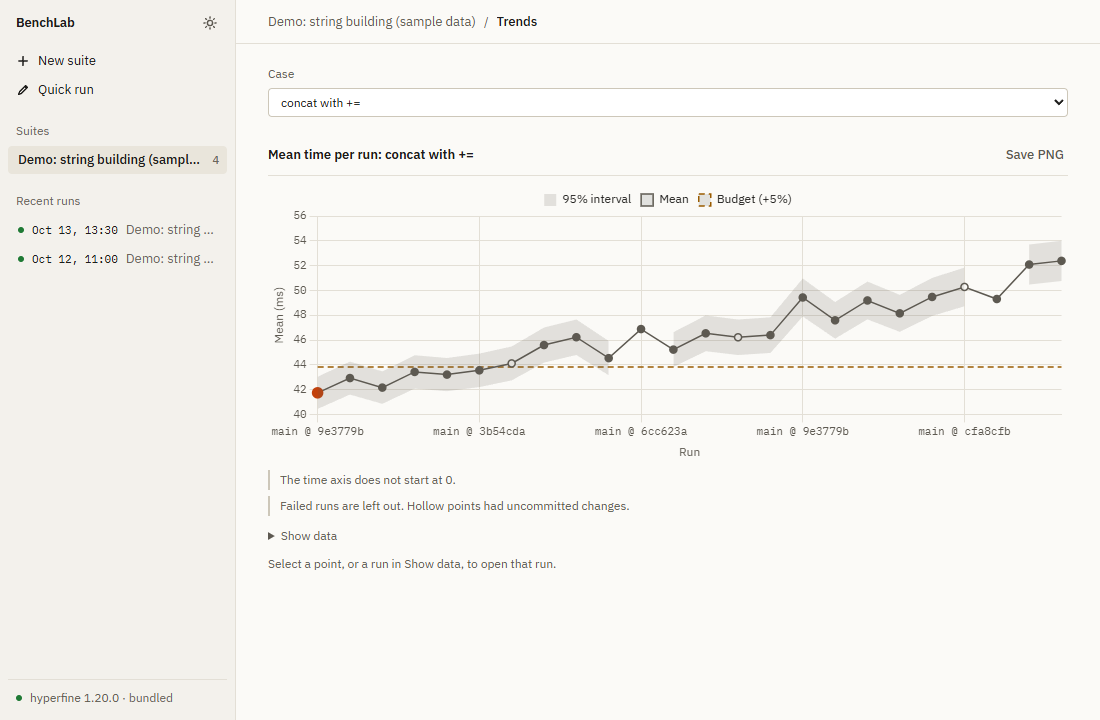
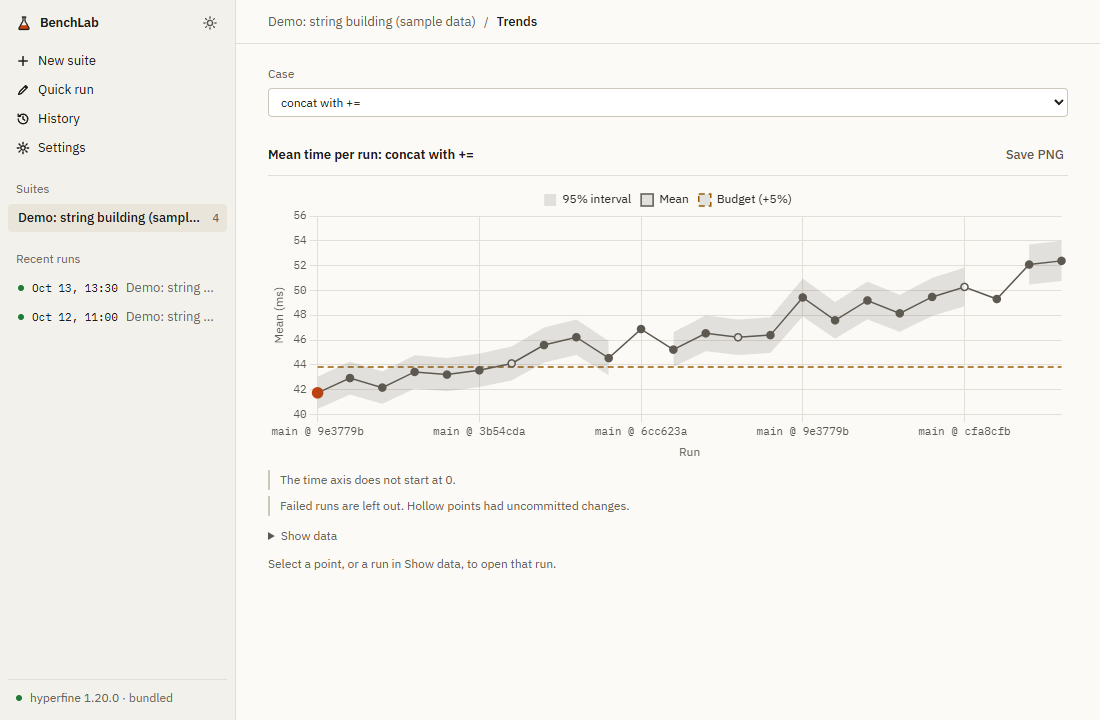
docs: describe progress, logs, diagnosis, history and settings
The README now covers live progress, the run log and running a failed
case once, the History and Settings pages, Excel export, and the new
module layout. Screenshots are regenerated from the UI audit, with one
of the History page added.

Changed region(s): [[0.0, 0.1528, 0.1855, 0.3667], [0.0309, 0.3972, 0.1855, 0.4583], [0.0, 0.0, 0.0927, 0.0611]]

diff --git a/README.md b/README.md
@@ -11,10 +11,11 @@ A desktop app for the question hyperfine leaves to you: **did my change make it 
 | | hyperfine alone | BenchLab |
 |---|---|---|
 | Rerun the same benchmark later | Retype or script the command line | Saved suite: cases, setup, cleanup, working directory, runs, warm-up |
-| Remember past results | Whatever you saved by hand | Every run stored with its raw output, a snapshot of the suite configuration, and the git commit it measured |
+| Remember past results | Whatever you saved by hand | Every run stored with its raw output, a snapshot of the suite configuration, and the git commit it measured; a History page to search, annotate, tag and delete runs |
+| Know what happened | Scroll back, if the window is still open | Live progress with an estimate of time left, hyperfine's log per case, and a way to run a failed case once and see what it printed |
 | Compare two runs | Eyeball two terminal outputs | Per-case change with a 95% interval, a verdict, and caveats |
 | See change over time | Plot it yourself | Distribution, run-order and per-case trend charts, with the 95% band, uncommitted runs and the regression budget marked |
-| Share results | Copy text | Markdown and CSV export, copy as Markdown |
+| Share results | Copy text | Markdown, CSV and Excel export, copy as Markdown, charts as PNG |
 | Install | Separate | Ships its own hyperfine |
 
 BenchLab does not replace hyperfine. It runs it for you and records what happened.
@@ -32,13 +33,18 @@ The sidebar footer shows which one is in use and its version. Every run records 
 ## Using it
 
 1. **New suite.** Name it, add cases (a name and a command each), and choose timed runs and warm-up runs. Setup and cleanup commands and a working directory are under each case.
-2. **Run.** BenchLab first shows every command, setup, cleanup and directory, and runs nothing until you confirm. You can cancel a running suite; cases already finished are kept.
-3. **Compare.** Open a run and choose Compare. The baseline defaults to the suite's pinned run (pin one from a run's page with Pin as baseline), or to the previous run that has results if none is pinned. Pick any two runs of the suite.
-4. **Charts.** Charts on a run or a comparison opens a page with a histogram of one case's timings and the timings in run order (a cold first run stands out there). Trends on a suite plots one case's mean across its runs, with the 95% band, uncommitted runs and the budget line. Every chart has a Show data table and can be saved as PNG.
+2. **Run.** BenchLab first shows every command, setup, cleanup and directory, and runs nothing until you confirm. While it runs, the sidebar and the suite page show the current case, the time so far and, once the suite has history, about how long is left. You can cancel a running suite; cases already finished are kept.
+3. **Read the run.** A run's page has its results, a searchable log with hyperfine's output for each case, and Markdown, CSV and Excel export. A failed case says why in plain words and offers **Run once and show output**: after the same confirmation, it runs that case once, untimed and not recorded, and shows everything it printed, including errors that a timed run discards.
+4. **Compare.** Open a run and choose Compare. The baseline defaults to the suite's pinned run (pin one from a run's page with Pin as baseline), or to the previous run that has results if none is pinned. Pick any two runs of the suite.
+5. **Charts.** Charts on a run or a comparison opens a page with a histogram of one case's timings and the timings in run order (a cold first run stands out there). Trends on a suite plots one case's mean across its runs, with the 95% band, uncommitted runs and the budget line. Every chart has a Show data table and can be saved as PNG.
 
    ![Trends for one case](docs/screenshots/light-trends.png)
 
-5. **Export.** Markdown, CSV or Excel from a run or a comparison. Use Excel for spreadsheets: a CSV depends on the locale's separators (with a decimal comma, Excel puts each CSV line in one cell), while the `.xlsx` stores numbers as numbers, with the notes and method on a second sheet.
+6. **Export.** Markdown, CSV or Excel from a run or a comparison. Use Excel for spreadsheets: a CSV depends on the locale's separators (with a decimal comma, Excel puts each CSV line in one cell), while the `.xlsx` stores numbers as numbers, with the notes and method on a second sheet.
+
+**History** lists every run across suites: search by suite, branch, commit, note or tag, filter by status and date, add a note and tags, compare two runs, or delete runs. **Settings** chooses the theme, an accent colour, the text size and the run counts new suites start with, and shows where the database and the log are.
+
+![History across suites](docs/screenshots/light-history.png)
 
 **Quick run** times a single command without saving anything. **Load sample data** (sidebar or Quick run) creates a demo suite with two finished runs, so you can look at every screen without running a thing. Its commands (`echo`, listing a directory, a counting loop, starting a shell) are real and harmless, so you can also run it as it is.
 
@@ -69,7 +75,8 @@ Change is candidate minus baseline, so negative is faster.
 
 BenchLab executes the commands you write, through hyperfine's shell, with your user's permissions. Treat a suite like a script.
 
-- Nothing runs on startup, on opening a suite, or on loading sample data. Running always goes through the confirmation dialog.
+- Nothing runs on startup, on opening a suite, or on loading sample data. Running always goes through the confirmation dialog, and so does running a failed case once to see its output.
+- Logs are shown only as text, never as HTML, so a command that prints markup cannot change the page.
 - The backend runs the saved suite, not what the screen holds, so the commands you confirm are the commands that execute.
 - Commands reach hyperfine as single arguments; BenchLab never builds shell strings itself.
 - Exports are written only to `.md`, `.csv` or `.txt` paths chosen in the system save dialog; chart images only to `.png`, and only if the bytes are a PNG; spreadsheets only to `.xlsx`, where text is always stored as text, never as a formula. CSV cells that start with `=`, `+`, `-` or `@` are prefixed so spreadsheets do not run them as formulas.
@@ -102,8 +109,8 @@ Layout:
 | Path | What |
 |---|---|
 | `src/app/core` | Parser, comparison statistics (`compare/`), Chart.js configurations for the charts (`charts/`), export, validation, error messages (framework-free, unit-tested) |
-| `src/app/features` | Quick run, suite editor (with its form mapping and run confirmation as plain functions), run detail, compare |
-| `src-tauri/src` | `db` (SQLite, migrations), `suites/`, `runs/`, `hyperfine/` (locate, process, run slot, commands), `git`, `demo`, `files`; each folder splits model, storage and Tauri commands |
+| `src/app/features` | One folder per page: quick run, suite editor (case list and run history as child components), run detail (log, failed-case diagnosis), compare (run pickers, verdict table), the chart pages, history and settings |
+| `src-tauri/src` | `db` (SQLite, migrations), `suites/`, `runs/` (store, execute, progress events, history search, diagnosis), `hyperfine/` (locate, process, failure wording, run slot, commands), `logs`, `git`, `demo`, `files` (export writers), `console` (no console windows); each folder splits model, storage and Tauri commands |
 | `scripts/fetch-hyperfine.mjs` | Sidecar download and verification |
 | `scripts/ui-audit` | Accessibility, keyboard and regression audit of every screen; `shots-digest.mjs` compares screenshots byte for byte |
 | `AGENTS.md` | Contribution rules: code quality, git workflow, verification |
